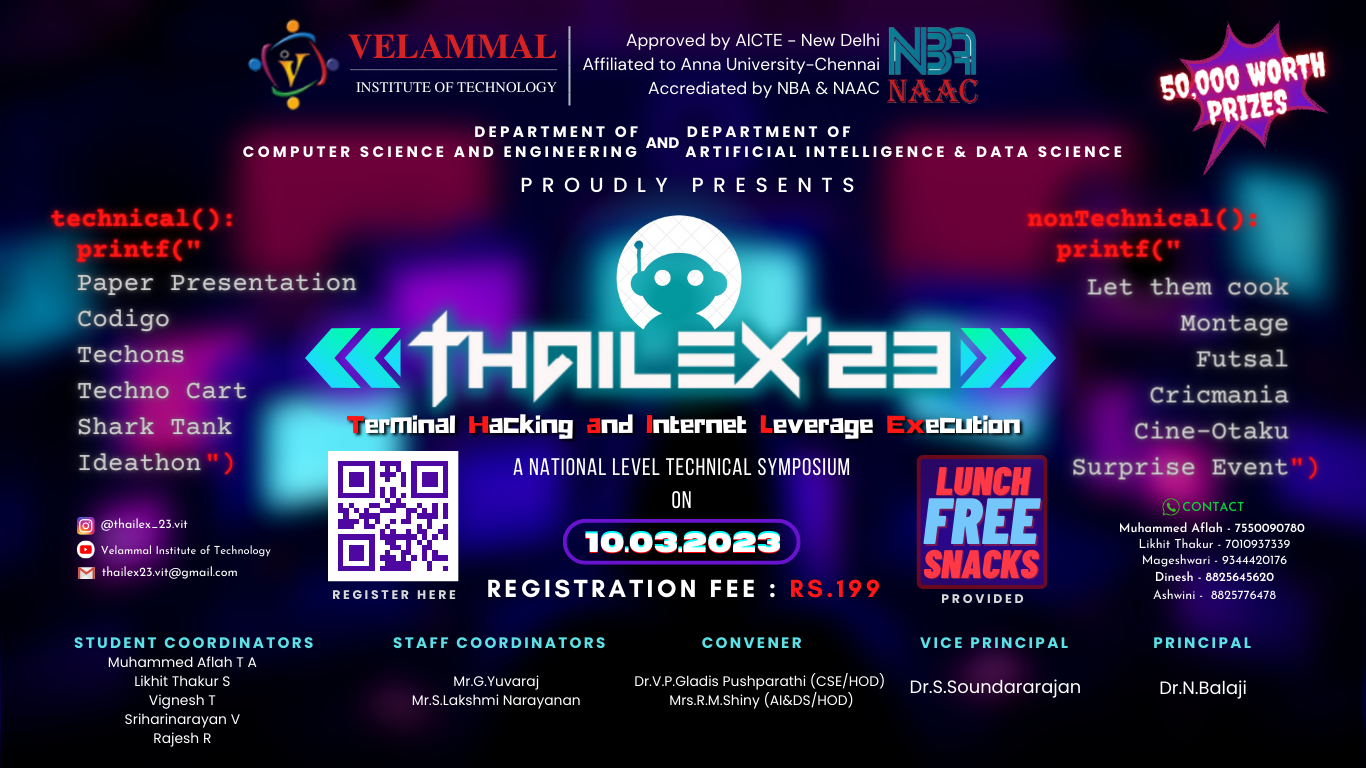
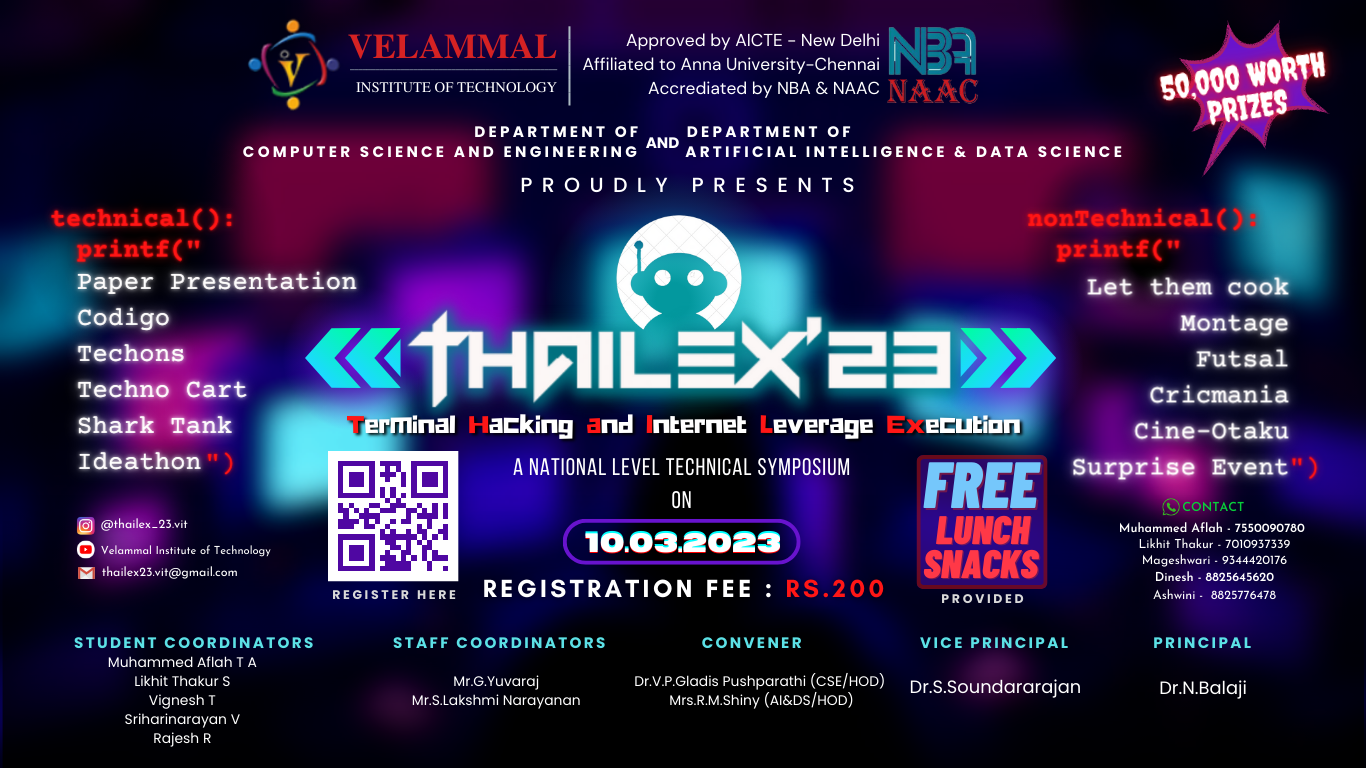
new commit

Changed region(s): [[0.6764, 0.3438, 0.9531, 0.7188], [0.0307, 0.3438, 0.2767, 0.625], [0.3382, 0.75, 0.6457, 0.7812]]

diff --git a/index.html b/index.html
@@ -559,7 +559,7 @@
         z-index: 10001;
       "
     >
-      1. Registration fee: ₹ 199/- per head for a total of any two technical and nontechnical events.<br /><br />
+      1. Registration fee: ₹ 200/- per head for a total of any two technical and nontechnical events.<br /><br />
       2. After registration is done, the participants will be added to a WhatsApp group
       for further updates.
       <br /><br />

diff --git a/page11.html b/page11.html
@@ -103,9 +103,9 @@
             <h6>+91 74485 92431</h6>
         </div>
         <div>
-            <h5 class="extrabold1">Kiruthiga </h5>
+            <h5 class="extrabold1">Durairaj A </h5>
             <!-- <h6 class="myHeader extrabold1 gradient0">Vice President</h6> -->
-            <h6>+91 86108 86129</h6>
+            <h6>+91 96260 70825</h6>
         </div>
     </div>
     <br><br>
